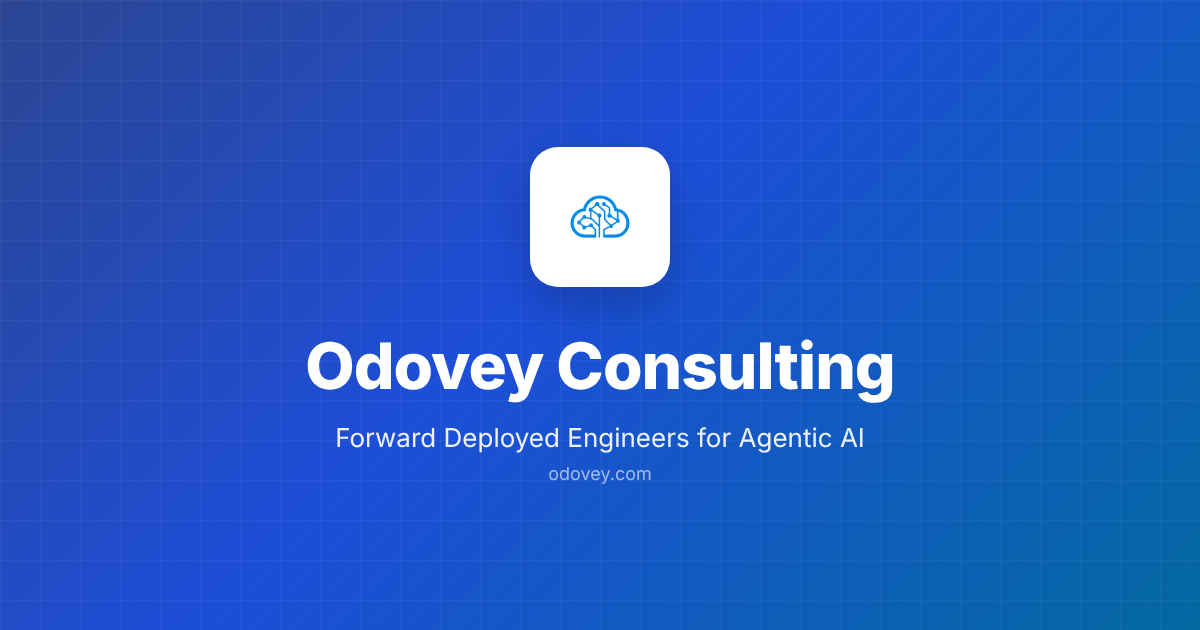
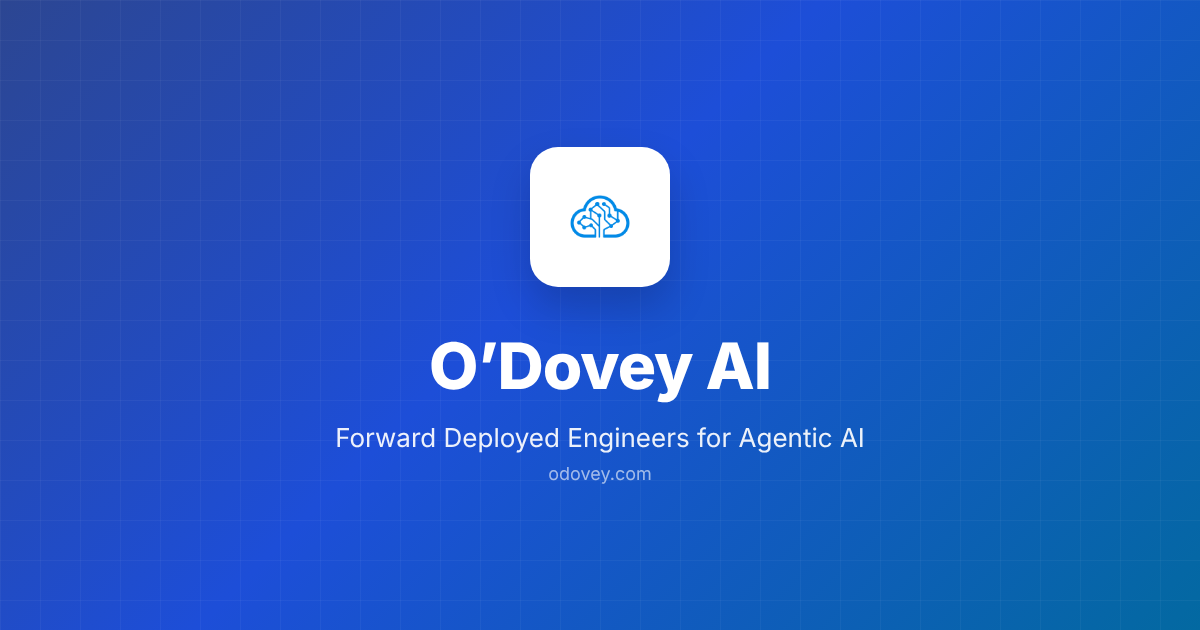
Rebrand site to O'Dovey AI
Rename the brand from Odovey Consulting to O'Dovey AI across page copy,
metadata, structured data, header, footer, llms.txt, docs, and the
social image. Update the footer and privacy policy to name the new
entity, O'Dovey Ventures LLC d/b/a O'Dovey AI.

Claude-Session: https://claude.ai/code/session_01LxoXaW5q9B2vYJ8ngWsVZb

Changed region(s): [[0.2467, 0.5429, 0.7708, 0.6635]]

diff --git a/app/layout.tsx b/app/layout.tsx
@@ -6,12 +6,12 @@ import { Footer } from '@/components/Footer'
 export const metadata: Metadata = {
   metadataBase: new URL('https://odovey.com'),
   title: {
-    template: '%s | Odovey Consulting',
-    default: 'Odovey Consulting - Forward Deployed Engineers for Agentic AI',
+    template: "%s | O'Dovey AI",
+    default: "O'Dovey AI | Forward Deployed Engineers for Agentic AI",
   },
-  description: 'Odovey Consulting is a professional services firm of forward deployed engineers. We build and deploy agentic AI solutions and platforms for organizations, enable their teams, and deliver corporate training.',
+  description: "O'Dovey AI is a professional services firm of forward deployed engineers. We build and deploy agentic AI solutions and platforms for organizations, enable their teams, and deliver corporate training.",
   keywords: 'forward deployed engineers, agentic AI consulting, agentic AI professional services, AI agent development, agentic platform, agentic workflows, AI gateway, harness engineering, AI corporate training',
-  authors: [{ name: 'Odovey Consulting' }],
+  authors: [{ name: "O'Dovey AI" }],
   robots: {
     index: true,
     follow: true,
@@ -24,10 +24,10 @@ export const metadata: Metadata = {
     },
   },
   openGraph: {
-    title: 'Odovey Consulting - Forward Deployed Engineers for Agentic AI',
+    title: "O'Dovey AI | Forward Deployed Engineers for Agentic AI",
     description: 'Forward deployed engineers who build and deploy agentic AI solutions and platforms, enable your teams, and deliver corporate training.',
     url: 'https://odovey.com',
-    siteName: 'Odovey Consulting',
+    siteName: "O'Dovey AI",
     locale: 'en_US',
     type: 'website',
     images: [
@@ -35,13 +35,13 @@ export const metadata: Metadata = {
         url: '/images/og-default.png',
         width: 1200,
         height: 630,
-        alt: 'Odovey Consulting - Forward Deployed Engineers for Agentic AI',
+        alt: "O'Dovey AI | Forward Deployed Engineers for Agentic AI",
       },
     ],
   },
   twitter: {
     card: 'summary_large_image',
-    title: 'Odovey Consulting - Forward Deployed Engineers for Agentic AI',
+    title: "O'Dovey AI | Forward Deployed Engineers for Agentic AI",
     description: 'Forward deployed engineers who build and deploy agentic AI solutions and platforms, enable your teams, and deliver corporate training.',
     images: ['/images/og-default.png'],
   },

diff --git a/app/privacy/page.tsx b/app/privacy/page.tsx
@@ -3,7 +3,7 @@ import Link from 'next/link'
 
 export const metadata: Metadata = {
   title: 'Privacy Policy',
-  description: 'Privacy Policy for Odovey Consulting. Learn how we handle your information when you use our website and contact form.',
+  description: "Privacy Policy for O'Dovey AI. Learn how we handle your information when you use our website and contact form.",
   alternates: {
     canonical: '/privacy/',
   },
@@ -29,13 +29,13 @@ export default function PrivacyPolicy() {
 
       <section className="section-padding">
         <div className="container-max max-w-3xl">
-          <p className="text-sm text-gray-500 mb-8">Effective Date: February 7, 2026</p>
+          <p className="text-sm text-gray-500 mb-8">Effective Date: October 14, 2026</p>
 
           <div className="prose prose-gray max-w-none space-y-8">
             <div>
               <h2 className="text-2xl font-bold text-gray-900 mb-3">Who We Are</h2>
               <p className="text-gray-600">
-                Odovey Consulting is a trade name of Chasing Cloud Careers LLC, a professional services company specializing in building and deploying agentic AI solutions and in corporate training. Our website is <strong>odovey.com</strong>.
+                O&apos;Dovey AI is a trade name of O&apos;Dovey Ventures LLC, a Texas limited liability company specializing in building and deploying agentic AI solutions and in corporate training. Our website is <strong>odovey.com</strong>.
               </p>
             </div>
 
@@ -84,7 +84,7 @@ export default function PrivacyPolicy() {
             <div>
               <h2 className="text-2xl font-bold text-gray-900 mb-3">Data Sharing</h2>
               <p className="text-gray-600">
-                We do not sell, rent, or share your personal information with any third parties. Your information is only used to respond to your inquiry and is not disclosed to anyone outside of Odovey Consulting.
+                We do not sell, rent, or share your personal information with any third parties. Your information is only used to respond to your inquiry and is not disclosed to anyone outside of O&apos;Dovey AI.
               </p>
             </div>
 

diff --git a/app/page.tsx b/app/page.tsx
@@ -31,7 +31,7 @@ export default function Home() {
         data={{
           '@context': 'https://schema.org',
           '@type': 'Organization',
-          name: 'Odovey Consulting',
+          name: "O'Dovey AI",
           url: 'https://odovey.com',
           logo: 'https://odovey.com/images/logo.png',
           description: 'Professional services firm of forward deployed engineers who build and deploy agentic AI solutions and platforms for organizations, enable their teams, and deliver corporate training.',
@@ -53,7 +53,7 @@ export default function Home() {
         data={{
           '@context': 'https://schema.org',
           '@type': 'WebSite',
-          name: 'Odovey Consulting',
+          name: "O'Dovey AI",
           url: 'https://odovey.com',
         }}
       />
@@ -70,7 +70,7 @@ export default function Home() {
               <span className="text-primary-600 block">Agentic Solutions</span>
             </h1>
             <p className="text-xl text-gray-600 mb-8 max-w-3xl mx-auto">
-              Odovey Consulting is a professional services firm of forward deployed engineers. We embed with your team, build the agents and platforms your organization needs, deploy them into your environment, and make sure your people can run them.
+              O&apos;Dovey AI is a professional services firm of forward deployed engineers. We embed with your team, build the agents and platforms your organization needs, deploy them into your environment, and make sure your people can run them.
             </p>
             <div className="flex flex-col sm:flex-row gap-4 justify-center">
               <Link href="/contact" className="btn-primary text-lg px-8 py-4">

diff --git a/app/about/page.tsx b/app/about/page.tsx
@@ -3,7 +3,7 @@ import { Users, Target, Award, Lightbulb, Globe, Rocket, Check } from 'lucide-re
 
 export const metadata: Metadata = {
   title: 'About Us',
-  description: 'Odovey Consulting is a professional services firm of forward deployed engineers who build and deploy agentic AI solutions and platforms for organizations, and train their teams to run them.',
+  description: "O'Dovey AI is a professional services firm of forward deployed engineers who build and deploy agentic AI solutions and platforms for organizations, and train their teams to run them.",
   alternates: {
     canonical: '/about/',
   },
@@ -19,7 +19,7 @@ export default function About() {
           <div className="text-center">
             <h1 className="text-4xl md:text-6xl font-bold text-gray-900 mb-6">
               About
-              <span className="text-primary-600 block">Odovey Consulting</span>
+              <span className="text-primary-600 block">O&apos;Dovey AI</span>
             </h1>
             <p className="text-xl text-gray-600 mb-8 max-w-3xl mx-auto">
               We are a professional services firm of forward deployed engineers. We build and deploy agentic AI solutions and platforms inside organizations, and we teach their people to run and extend them.

diff --git a/components/Footer.tsx b/components/Footer.tsx
@@ -12,13 +12,13 @@ export function Footer() {
             <Link href="/" className="flex items-center space-x-3 mb-4">
               <Image
                 src="/images/logo.png"
-                alt="Odovey Consulting Logo"
+                alt="O'Dovey AI Logo"
                 width={40}
                 height={40}
                 className="h-10 w-auto"
               />
                       <span className="text-xl font-bold">
-          Odovey Consulting
+          O&apos;Dovey AI
         </span>
             </Link>
             <p className="text-gray-300 mb-6 max-w-md">
@@ -91,7 +91,7 @@ export function Footer() {
 
         <div className="border-t border-gray-800 mt-8 pt-8 flex flex-col md:flex-row justify-between items-center">
           <p className="text-gray-400 text-sm">
-            © 2022–2026 Chasing Cloud Careers LLC d/b/a Odovey Consulting. All rights reserved.
+            © 2026 O&apos;Dovey Ventures LLC d/b/a O&apos;Dovey AI. All rights reserved.
           </p>
           <div className="flex space-x-6 mt-4 md:mt-0">
             <Link href="/privacy" className="text-gray-400 hover:text-white text-sm transition-colors">

diff --git a/app/contact/page.tsx b/app/contact/page.tsx
@@ -5,7 +5,7 @@ import { contactFaqs } from '@/lib/faqs'
 
 export const metadata: Metadata = {
   title: 'Contact Us',
-  description: 'Get in touch with Odovey Consulting about building and deploying agentic AI solutions and platforms, team enablement, or corporate training. We typically respond within 24 hours.',
+  description: "Get in touch with O'Dovey AI about building and deploying agentic AI solutions and platforms, team enablement, or corporate training. We typically respond within 24 hours.",
   alternates: {
     canonical: '/contact/',
   },

diff --git a/components/Header.tsx b/components/Header.tsx
@@ -25,13 +25,13 @@ export function Header() {
           <Link href="/" className="flex items-center space-x-3">
             <Image
               src="/images/logo.png"
-              alt="Odovey Consulting Logo"
+              alt="O'Dovey AI Logo"
               width={40}
               height={40}
               className="h-10 w-auto"
             />
                     <span className="text-xl font-bold text-gray-900">
-          Odovey Consulting
+          O&apos;Dovey AI
         </span>
           </Link>
 

diff --git a/app/blog/[slug]/page.tsx b/app/blog/[slug]/page.tsx
@@ -75,7 +75,7 @@ export default async function BlogPostPage({
           datePublished: post.date,
           publisher: {
             '@type': 'Organization',
-            name: 'Odovey Consulting',
+            name: "O'Dovey AI",
             url: 'https://odovey.com',
             logo: {
               '@type': 'ImageObject',

diff --git a/app/services/page.tsx b/app/services/page.tsx
@@ -156,7 +156,7 @@ export default function Services() {
         data={{
           '@context': 'https://schema.org',
           '@type': 'ProfessionalService',
-          name: 'Odovey Consulting',
+          name: "O'Dovey AI",
           url: 'https://odovey.com/services/',
           description,
           hasOfferCatalog: {

diff --git a/app/training/page.tsx b/app/training/page.tsx
@@ -104,7 +104,7 @@ export default function Training() {
               description: p.description,
               provider: {
                 '@type': 'Organization',
-                name: 'Odovey Consulting',
+                name: "O'Dovey AI",
                 url: 'https://odovey.com',
               },
             },

diff --git a/AGENTS.md b/AGENTS.md
@@ -4,7 +4,7 @@ This file provides guidance to AI coding agents when working with this repositor
 
 ## Repository Overview
 
-The Odovey Consulting website is a statically generated marketing site for an agentic AI professional services firm of forward deployed engineers (build & deploy, enable, train), built with Next.js 16 (App Router), TypeScript, and Tailwind CSS 4. It deploys to GitHub Pages via GitHub Actions. Blog content lives in a separate repository and is fetched at build time.
+The O'Dovey AI website is a statically generated marketing site for an agentic AI professional services firm of forward deployed engineers (build & deploy, enable, train), built with Next.js 16 (App Router), TypeScript, and Tailwind CSS 4. It deploys to GitHub Pages via GitHub Actions. Blog content lives in a separate repository and is fetched at build time.
 
 ## Tech Stack
 

diff --git a/README.md b/README.md
@@ -1,6 +1,6 @@
-# Odovey Consulting Website
+# O'Dovey AI Website
 
-Corporate website for [Odovey Consulting](https://odovey.com) — a professional services firm of forward deployed engineers that builds and deploys agentic AI solutions and platforms.
+Corporate website for [O'Dovey AI](https://odovey.com) — a professional services firm of forward deployed engineers that builds and deploys agentic AI solutions and platforms.
 
 ## Tech Stack
 
@@ -53,4 +53,4 @@ The site is statically exported and deployed to GitHub Pages via the workflow in
 
 ## License
 
-Proprietary — Odovey Consulting.
+Proprietary — O'Dovey Ventures LLC d/b/a O'Dovey AI.
